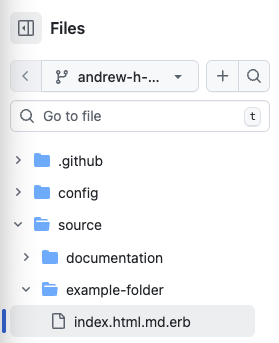
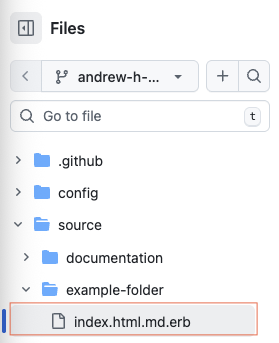
Add visual cues to images

Changed region(s): [[0.0287, 0.8746, 0.9462, 0.9913]]

diff --git a/assets/docs/guides/04-edit-navigation/index.md b/assets/docs/guides/04-edit-navigation/index.md
@@ -126,7 +126,7 @@ Select **...**`(More file actions)`, then choose `Delete file`.
 </details>
 
 ### Step 3 - Commit your changes
-Follow **Steps 4-5 in [Create a new page](#create-a-new-navigation-link-page)** to commit your changes and create a pull request.
+Follow **Steps 4-5 in [Create a new navigation link page](#create-a-new-navigation-link-page)** to commit your changes and create a pull request.
 
 
 ---
